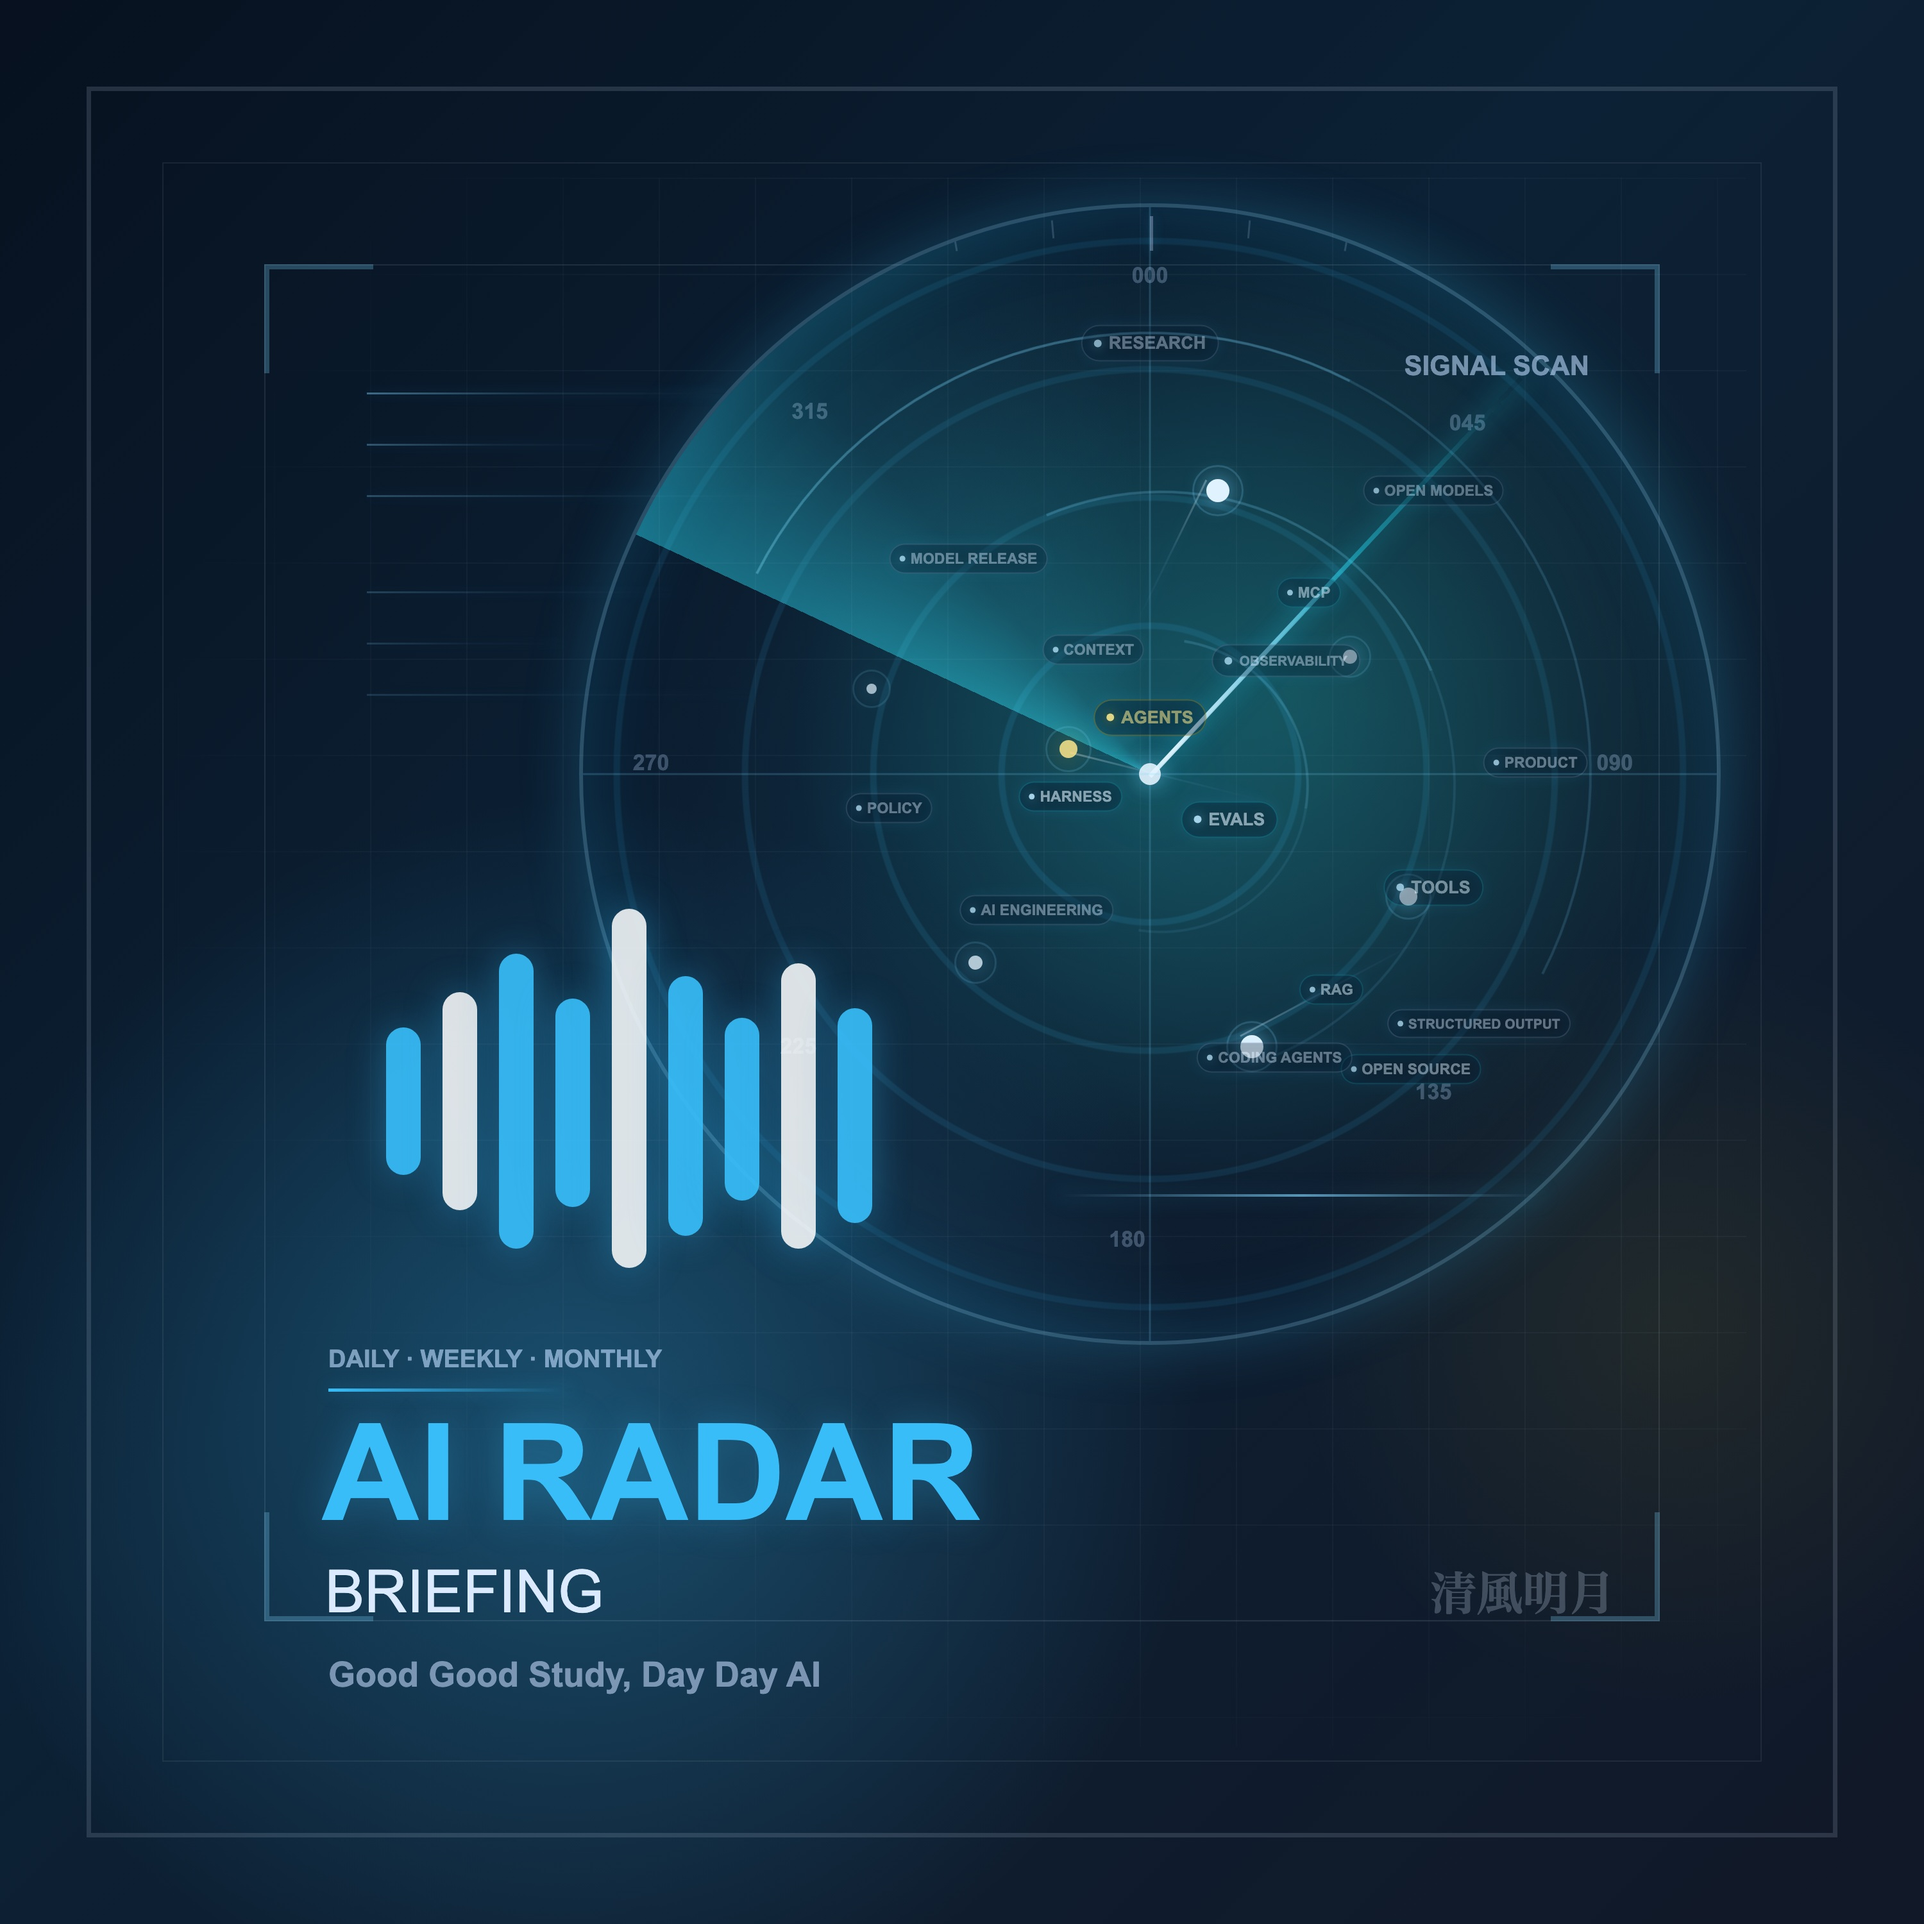
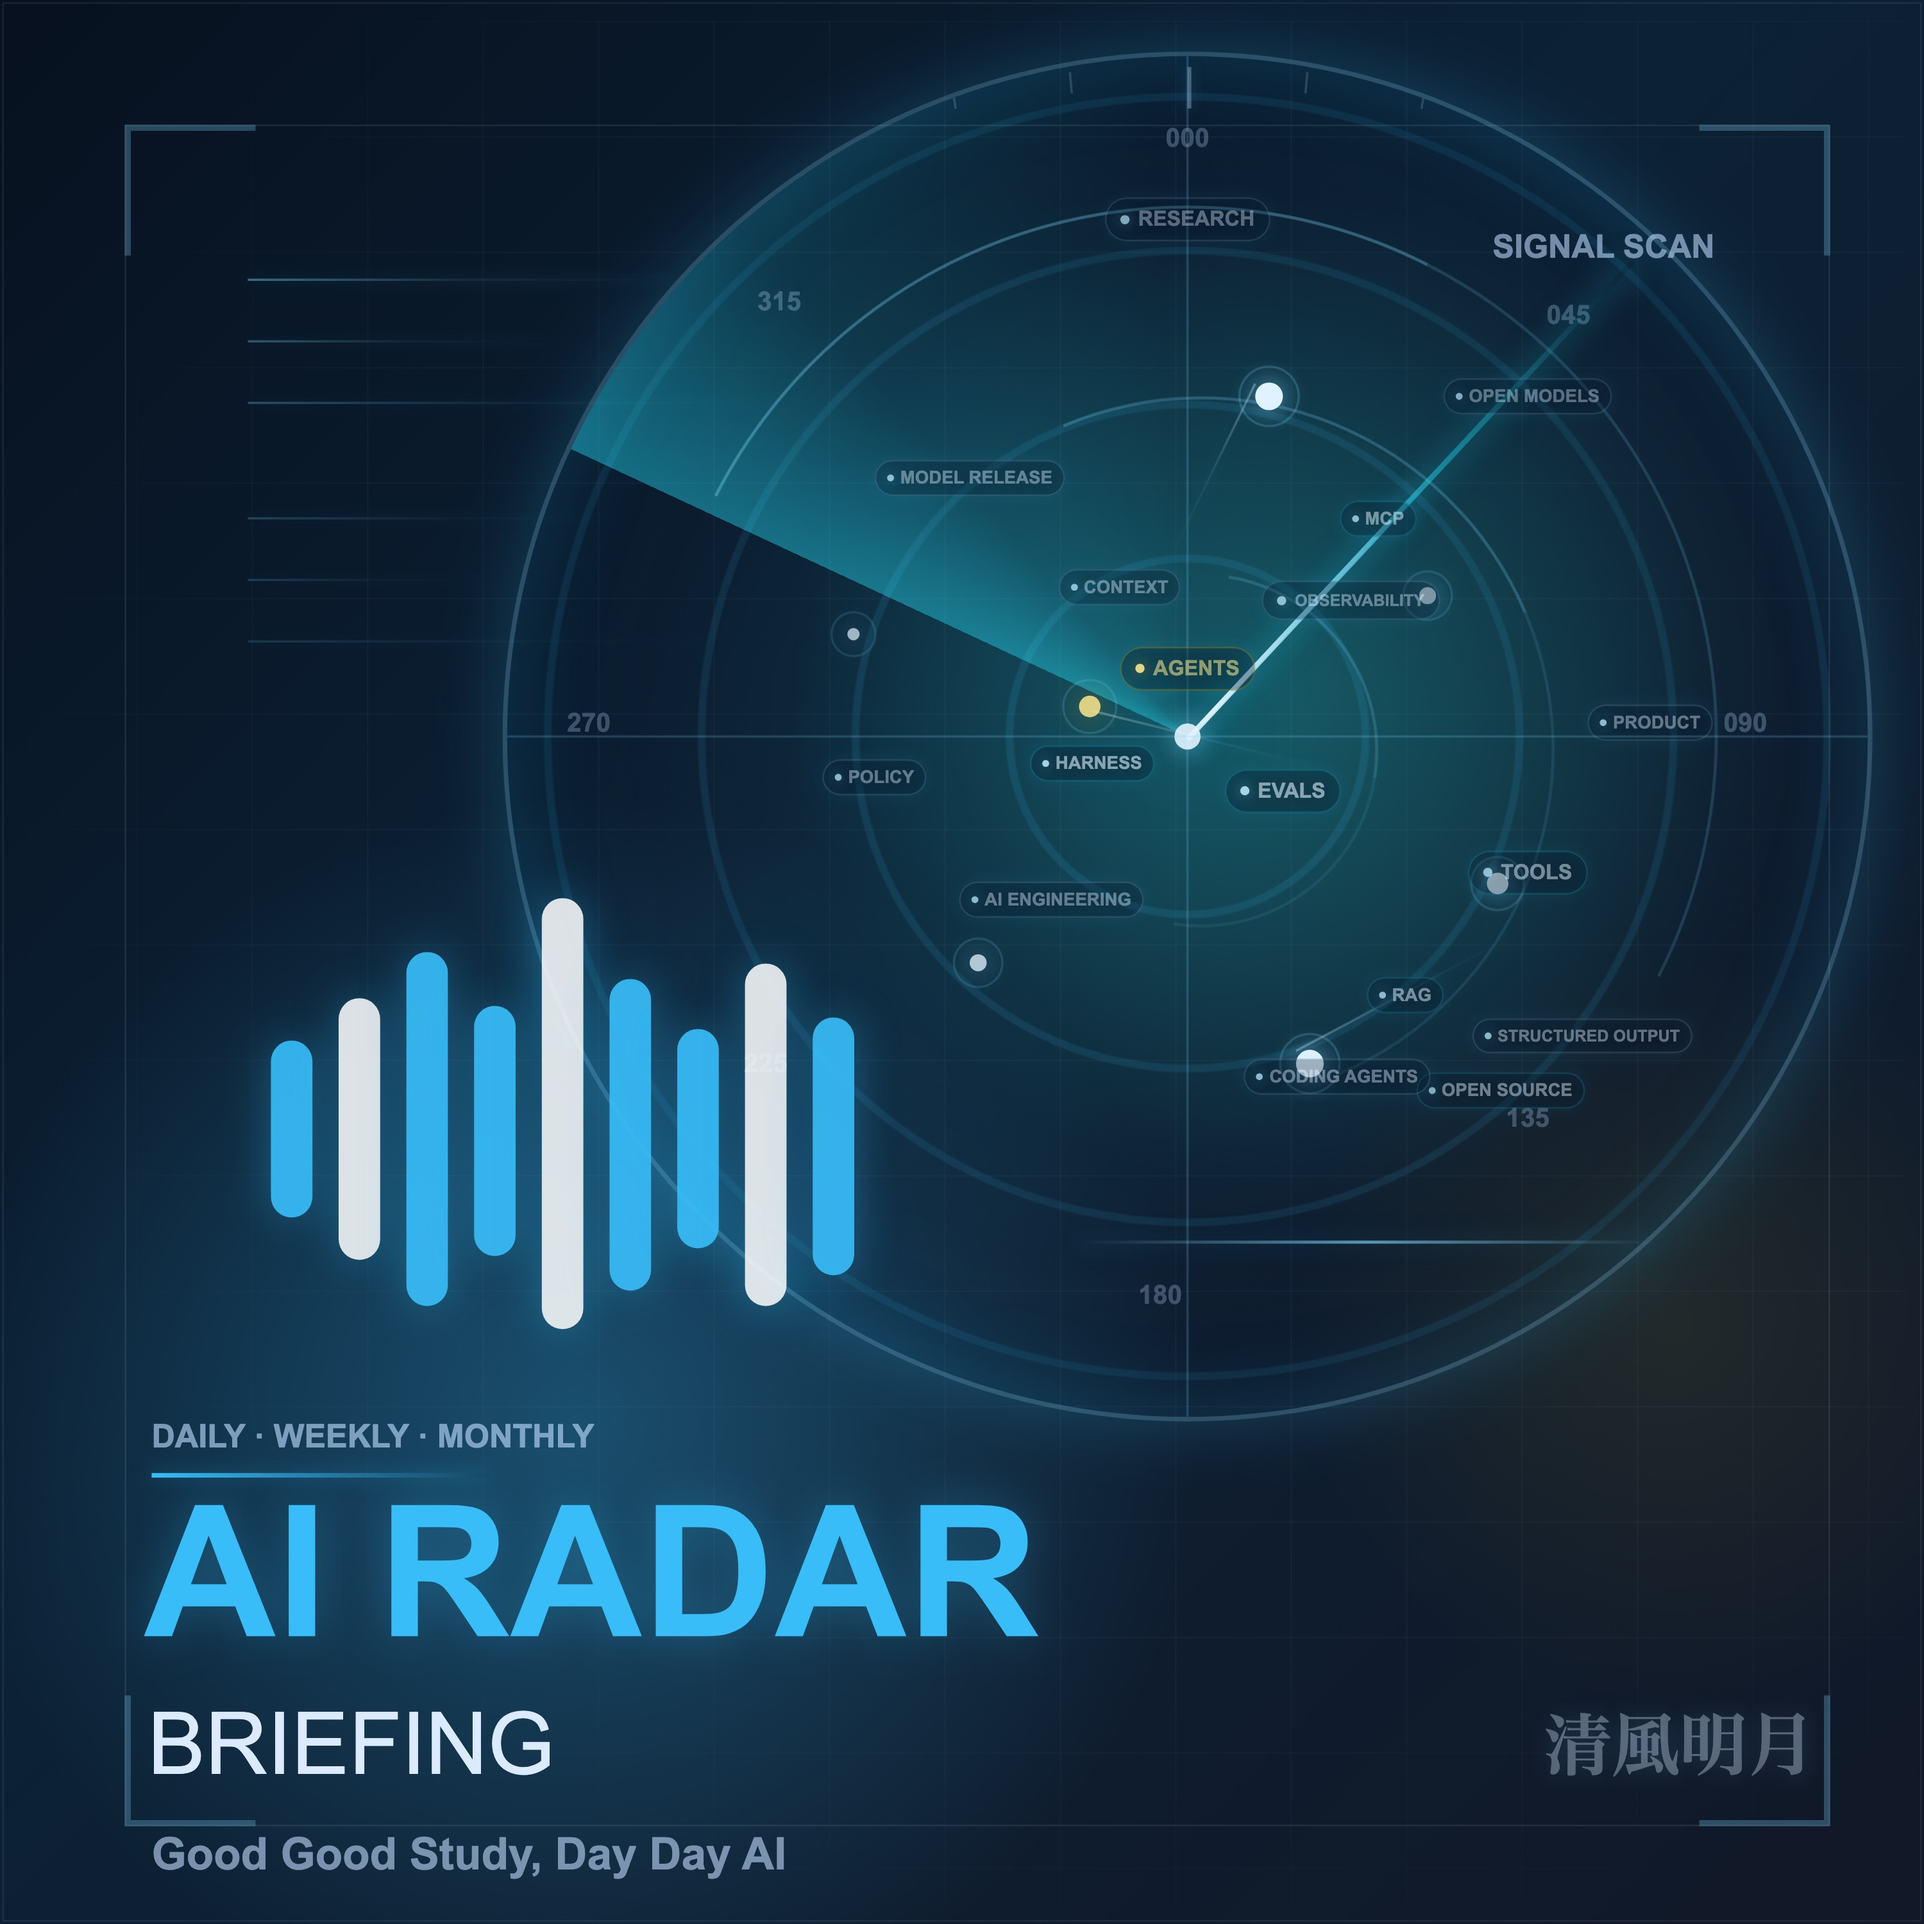
Polish podcast feed and cover

diff --git a/src/lib/podcast.ts b/src/lib/podcast.ts
@@ -5,7 +5,6 @@ import { getEntriesForLocale } from './content';
 import { articlePath, homePath, resolveSiteUrl, type Locale } from './site';
 
 const PODCAST_ENTRY_LIMIT = 100;
-const EPISODE_DETAIL_CHAR_LIMIT = 7000;
 
 const showMeta: Record<
   Locale,
@@ -69,10 +68,16 @@ export async function buildPodcastFeed({
         entry.data.audioSize ?? (await getLocalPublicAssetSize(entry.data.audioUrl));
       const duration = entry.data.audioDuration;
       const articleUrl = new URL(articlePath(entry.data.category, slug, locale), site).toString();
+      const episodeSummary = buildEpisodeSummary({
+        summary: entry.data.plainSummary ?? entry.data.description ?? entry.data.title,
+        articleUrl,
+        locale,
+      });
       const episodeDescription = buildEpisodeDescription({
         summary: entry.data.plainSummary ?? entry.data.description ?? entry.data.title,
-        body: entry.body,
         articleUrl,
+        coverUrl,
+        title: entry.data.title,
         locale,
       });
 
@@ -88,7 +93,7 @@ export async function buildPodcastFeed({
         },
         customData: [
           duration ? `<itunes:duration>${duration}</itunes:duration>` : '',
-          `<itunes:summary>${escapeXmlText(episodeDescription)}</itunes:summary>`,
+          `<itunes:summary>${escapeXmlText(episodeSummary)}</itunes:summary>`,
           `<itunes:explicit>${entry.data.audioExplicit ? 'true' : 'false'}</itunes:explicit>`,
           `<itunes:episodeType>full</itunes:episodeType>`,
           `<itunes:image href="${escapeXmlAttribute(coverUrl)}" />`,
@@ -142,53 +147,39 @@ async function getLocalPublicAssetSize(url: string | undefined) {
 
 function buildEpisodeDescription({
   summary,
-  body,
+  articleUrl,
+  coverUrl,
+  title,
+  locale,
+}: {
+  summary: string;
+  articleUrl: string;
+  coverUrl: string;
+  title: string;
+  locale: Locale;
+}) {
+  const readMore = locale === 'ja' ? '全文を読む' : '阅读全文';
+  const imageAlt = locale === 'ja' ? `${title} のカバー画像` : `${title} 封面图`;
+  const parts = [
+    `<p>${escapeHtmlText(summary.trim())}</p>`,
+    `<p><a href="${escapeHtmlAttribute(articleUrl)}">${escapeHtmlText(readMore)}</a></p>`,
+    `<p><img src="${escapeHtmlAttribute(coverUrl)}" alt="${escapeHtmlAttribute(imageAlt)}" /></p>`,
+  ].filter(Boolean);
+
+  return parts.join('');
+}
+
+function buildEpisodeSummary({
+  summary,
   articleUrl,
   locale,
 }: {
   summary: string;
-  body: string | undefined;
   articleUrl: string;
   locale: Locale;
 }) {
-  const bodyText = body ? markdownToPodcastText(body) : '';
   const readMore = locale === 'ja' ? '全文を読む' : '阅读全文';
-  const parts = [
-    summary.trim(),
-    bodyText ? truncateAtParagraphBoundary(bodyText, EPISODE_DETAIL_CHAR_LIMIT) : '',
-    `${readMore}: ${articleUrl}`,
-  ].filter(Boolean);
-
-  return parts.join('\n\n');
-}
-
-function markdownToPodcastText(markdown: string) {
-  return markdown
-    .replace(/<!--[\s\S]*?-->/g, '')
-    .replace(/```[\s\S]*?```/g, (match) => match.replace(/```[^\n]*\n?|```/g, ''))
-    .replace(/!\[([^\]]*)\]\([^)]+\)/g, '$1')
-    .replace(/\[([^\]]+)\]\(([^)\s]+)(?:\s+"[^"]*")?\)/g, '$1 ($2)')
-    .replace(/^#{1,6}\s+/gm, '')
-    .replace(/^>\s?/gm, '')
-    .replace(/^\s*[-*+]\s+/gm, '- ')
-    .replace(/^\s*\d+\.\s+/gm, '')
-    .replace(/^\s*\|?\s*:?-{3,}:?\s*(\|\s*:?-{3,}:?\s*)+\|?\s*$/gm, '')
-    .replace(/<\/?[^>]+>/g, '')
-    .replace(/[*_~`]/g, '')
-    .replace(/\r\n/g, '\n')
-    .replace(/[ \t]+\n/g, '\n')
-    .replace(/\n{3,}/g, '\n\n')
-    .trim();
-}
-
-function truncateAtParagraphBoundary(text: string, limit: number) {
-  if (text.length <= limit) {
-    return text;
-  }
-
-  const boundary = text.lastIndexOf('\n\n', limit);
-  const cutPoint = boundary > limit * 0.6 ? boundary : limit;
-  return `${text.slice(0, cutPoint).trimEnd()}...`;
+  return [summary.trim(), `${readMore}: ${articleUrl}`].filter(Boolean).join('\n\n');
 }
 
 function escapeXmlText(value: string) {
@@ -197,4 +188,12 @@ function escapeXmlText(value: string) {
 
 function escapeXmlAttribute(value: string) {
   return escapeXmlText(value).replace(/"/g, '&quot;');
+}
+
+function escapeHtmlText(value: string) {
+  return escapeXmlText(value);
+}
+
+function escapeHtmlAttribute(value: string) {
+  return escapeHtmlText(value).replace(/"/g, '&quot;');
 }
